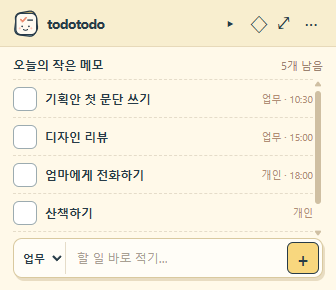
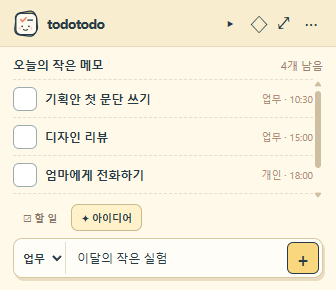
Keep compact capture drafts and add quick ideas

diff --git a/static/app.js b/static/app.js
@@ -1,6 +1,7 @@
 const $ = selector => document.querySelector(selector);
 const state = {items: [], view: 'home', scope: 'all', taskFilter: 'open', calendarMode: 'month', editing: null, month: new Date(), selectedDay: localDate(new Date()), preferredDay: new Date().getDate()};
 let desktopCompact = false;
+let compactKind = 'task';
 let renderedDate = '';
 let conflictAction = null;
 let editorBaseline = '';
@@ -317,7 +318,7 @@ function confirmCloseApp() {
 function requestCloseApp() {
   if (saving || compactSaving) {toast('저장 중입니다.'); return;}
   if ($('#discard-dialog').open) {pendingAppClose = true; return;}
-  if (editorHasChanges() || $('#compact-input').value.trim()) {
+  if (editorHasChanges()) {
     pendingAppClose = true;
     $('#discard-dialog').showModal();
   } else confirmCloseApp();
@@ -339,7 +340,7 @@ document.addEventListener('click', async event => {
   }
   const view = event.target.closest('[data-view]'); if (view) return setView(view.dataset.view);
   const create = event.target.closest('[data-new]'); if (create) return openEditor(create.dataset.new);
-  const scope = event.target.closest('[data-scope]'); if (scope) {state.scope = scope.dataset.scope; if (state.scope !== 'all') $('#compact-scope').value = state.scope; document.querySelectorAll('[data-scope]').forEach(el => {const selected = el === scope; el.classList.toggle('selected', selected); el.setAttribute('aria-pressed', String(selected));}); return render();}
+  const scope = event.target.closest('[data-scope]'); if (scope) {state.scope = scope.dataset.scope; if (state.scope !== 'all') {$('#compact-scope').value = state.scope; syncCompactDraftIndicator();} document.querySelectorAll('[data-scope]').forEach(el => {const selected = el === scope; el.classList.toggle('selected', selected); el.setAttribute('aria-pressed', String(selected));}); return render();}
   const filter = event.target.closest('[data-filter]'); if (filter) return setTaskFilter(filter.dataset.filter);
   const day = event.target.closest('[data-day]'); if (day) return selectCalendarDay(day.dataset.day);
   const compactEdit = event.target.closest('[data-compact-edit]'); if (compactEdit) {
@@ -541,10 +542,29 @@ function syncCompactDraftIndicator() {
   button.title = hasDraft ? '작은 메모 초안 이어쓰기' : '작은 메모 모드';
   button.setAttribute('aria-label', button.title);
   button.querySelector('span').textContent = hasDraft ? '초안 이어쓰기' : '작게 보기';
+  localStorage.setItem('todo-compact-draft-v1', JSON.stringify({title:$('#compact-input').value, scope:$('#compact-scope').value, kind:compactKind}));
+}
+function setCompactKind(kind) {
+  compactKind = kind;
+  document.querySelectorAll('[data-compact-kind]').forEach(button => button.setAttribute('aria-pressed', String(button.dataset.compactKind === kind)));
+  const label = kind === 'idea' ? '아이디어 한 줄 적기' : '오늘 할 일 적기';
+  $('#compact-input').placeholder = `${label}…`;
+  $('#compact-input').setAttribute('aria-label', label);
+  syncCompactDraftIndicator();
+}
+function restoreCompactDraft() {
+  try {
+    const draft = JSON.parse(localStorage.getItem('todo-compact-draft-v1') || '{}');
+    if (typeof draft.title === 'string') $('#compact-input').value = draft.title.slice(0, 200);
+    if (['personal','work'].includes(draft.scope)) $('#compact-scope').value = draft.scope;
+    setCompactKind(draft.kind === 'idea' ? 'idea' : 'task');
+  } catch {localStorage.removeItem('todo-compact-draft-v1'); setCompactKind('task');}
 }
 $('#compact-button').onclick = () => toggleCompact(true);
 $('#expand-button').onclick = () => toggleCompact(false);
 $('#compact-input').addEventListener('input', syncCompactDraftIndicator);
+$('#compact-scope').addEventListener('change', syncCompactDraftIndicator);
+document.querySelectorAll('[data-compact-kind]').forEach(button => {button.onclick = () => setCompactKind(button.dataset.compactKind);});
 $('#fold-button').onclick = $('#compact-fold').onclick = async () => {try {await window.todoDesktop.fold();} catch(error) {toast(error.message);}};
 document.querySelectorAll('[data-window-action]').forEach(button => {
   button.onclick = async () => {
@@ -555,11 +575,11 @@ document.querySelectorAll('[data-window-action]').forEach(button => {
 $('#compact-form').onsubmit = async event => {
   event.preventDefault();
   if (compactSaving) return;
-  const input = $('#compact-input'), title = input.value.trim();
+  const input = $('#compact-input'), title = input.value.trim(), scope = $('#compact-scope').value, kind = compactKind;
   if (!title) return;
   const button = event.currentTarget.querySelector('button[type="submit"]');
   compactSaving = true; button.disabled = true;
-  try {await api('/api/items',{method:'POST',body:JSON.stringify({title,kind:'task',scope:$('#compact-scope').value,date:localDate(new Date())})}); if (input.value.trim() === title) input.value = ''; await refresh(); toast('오늘 페이지에 적었어요.');}
+  try {await api('/api/items',{method:'POST',body:JSON.stringify({title,kind,scope,date:kind === 'task' ? localDate(new Date()) : ''})}); if (input.value.trim() === title && scope === $('#compact-scope').value && kind === compactKind) {input.value = ''; syncCompactDraftIndicator();} await refresh(); toast(kind === 'idea' ? '아이디어 보관함에 담았어요.' : '오늘 페이지에 적었어요.');}
   catch(error) {toast(error.message);}
   finally {compactSaving = false; button.disabled = false; syncCompactDraftIndicator();}
 };
@@ -709,6 +729,7 @@ document.addEventListener('keydown', event => {
   if (window.todoDesktop && event.ctrlKey && event.shiftKey && event.key.toLowerCase() === 'm') {event.preventDefault(); toggleCompact();}
   if (!desktopCompact && event.ctrlKey && event.key.toLowerCase() === 'n') {event.preventDefault(); if (!document.querySelector('dialog[open]')) openEditor();}
 });
+restoreCompactDraft();
 initializeDesktop().then(refresh).catch(error => toast(error.message));
 window.addEventListener('focus', refresh);
 document.addEventListener('visibilitychange', () => {if (!document.hidden) refresh();});

diff --git a/static/index.html b/static/index.html
@@ -12,7 +12,7 @@
 <body>
   <section class="compact-shell" aria-label="작은 메모 모드">
     <div class="compact-header"><div class="compact-brand"><img src="./logo.svg" alt="" width="31" height="31"><strong>todotodo</strong></div><div class="compact-controls"><button id="compact-fold" title="화면 가장자리로 접기" aria-label="화면 가장자리로 접기">▸</button><button id="compact-pin" title="창 고정" aria-label="창 고정">◇</button><button id="expand-button" title="큰 화면으로" aria-label="큰 화면으로">⤢</button><details class="window-menu"><summary title="창 메뉴" aria-label="창 메뉴">···</summary><div class="window-menu-panel"><button data-window-action="minimize">최소화</button><button data-window-action="close">닫기</button></div></details></div></div>
-    <div class="compact-body"><div class="compact-caption"><strong>오늘의 작은 메모</strong><span id="compact-count">0개 남음</span></div><div id="compact-list"></div><form id="compact-form"><select id="compact-scope" aria-label="저장할 공간"><option value="personal">개인</option><option value="work">업무</option></select><input id="compact-input" maxlength="200" placeholder="할 일 바로 적기…" aria-label="할 일 바로 적기" required><button type="submit" aria-label="추가">＋</button></form></div>
+    <div class="compact-body"><div class="compact-caption"><strong>오늘의 작은 메모</strong><span id="compact-count">0개 남음</span></div><div id="compact-list"></div><div class="compact-kind-switch" role="group" aria-label="빠른 기록 종류"><button type="button" data-compact-kind="task" aria-pressed="true">☑ 할 일</button><button type="button" data-compact-kind="idea" aria-pressed="false">✦ 아이디어</button></div><form id="compact-form"><select id="compact-scope" aria-label="저장할 공간"><option value="personal">개인</option><option value="work">업무</option></select><input id="compact-input" maxlength="200" placeholder="할 일 바로 적기…" aria-label="할 일 바로 적기" required><button type="submit" aria-label="추가">＋</button></form></div>
   </section>
   <div class="app-shell">
     <aside class="sidebar">

diff --git a/static/theme.css b/static/theme.css
@@ -179,6 +179,10 @@ button:focus-visible, input:focus-visible, textarea:focus-visible, select:focus-
 .compact-title:hover { text-decoration: underline; }
 .compact-row small { flex: none; white-space: nowrap; color: #b18e74; font-size: 10px; }
 .compact-empty { display: grid; place-items: center; height: 100%; color: #9b8c7b; font-size: 10px; }
+.compact-kind-switch { display: flex; gap: 4px; margin: 4px 0 7px; }
+.compact-kind-switch button { min-height: 27px; padding: 3px 9px; border: 1px solid transparent; border-radius: 7px; background: transparent; color: #8b7869; font-size: 10px; font-weight: 700; }
+.compact-kind-switch button:hover { background: #f4e6c5; }
+.compact-kind-switch button[aria-pressed="true"] { border-color: #cbb98e; background: #fff2cb; color: var(--ink); }
 #compact-form { display: flex; gap: 4px; border: 1.5px solid #d9c99f; border-radius: 9px; padding: 3px; background: #fffdf7; box-shadow: 2px 3px 0 #e8dcc2; }
 #compact-scope { flex: none; width: 49px; padding: 0 2px; border: 0; border-right: 1px solid #e5dcc9; border-radius: 0; background: transparent; color: var(--ink); font-size: 11px; font-weight: 700; cursor: pointer; }
 #compact-form:focus-within { border-color: #80b4a8; box-shadow: 0 0 0 3px #a7d8d550; }

diff --git a/README.md b/README.md
@@ -15,12 +15,12 @@ TodoTodo는 책상 한쪽에 놓아두는 작은 수첩 같은 Windows 앱입니
 | 보기 | 쓰임 |
 | --- | --- |
 | 전체 창 | 할 일, 달력, 아이디어를 정리할 때 |
-| 작은 메모 | 오늘 할 일을 스크롤해 보며 바로 적거나 체크할 때 |
+| 작은 메모 | 오늘 할 일을 훑고 체크하거나 아이디어를 바로 적을 때 |
 | 가장자리 탭 | 화면을 비워두고 로고만 왼쪽·오른쪽에 남길 때 |
 
 ![작은 메모 모드](docs/compact.png)
 
-작은 메모에서도 남은 항목을 모두 스크롤해 볼 수 있습니다. 빠른 입력 왼쪽에서 **개인/업무**를 골라 저장할 공간을 정하세요.
+작은 메모에서도 남은 항목을 모두 스크롤해 볼 수 있습니다. 입력창 위에서 **할 일/아이디어**를 고르고, 왼쪽에서 **개인/업무**를 고르세요. 할 일은 오늘 날짜로, 아이디어는 날짜 없이 보관합니다.
 
 기본 Windows 제목 표시줄 없이 앱 헤더나 로고 부분을 잡아 창을 움직입니다. 오른쪽 `···` 메뉴에서 최소화·최대화·닫기를 고릅니다. 창 고정과 투명도(45–100%)를 조절할 수 있습니다. 가장자리로 접은 아이콘 위의 작은 점을 잡아 위아래로 옮기면 모니터별 위치를 기억합니다. 시간이 있는 일정은 정각 또는 5·10·30분 전에 알림을 보냅니다. 모니터를 옮기거나 해상도가 바뀌면 창을 화면 안으로 맞춥니다. `Ctrl+Shift+M`으로 전체 창과 작은 메모를 전환할 수 있습니다.
 창 너비가 좁아지면 로고와 메뉴를 한 줄로 접어 할 일과 일정이 바로 보이도록 배치합니다.
@@ -40,7 +40,7 @@ PC가 잠자기에서 돌아온 뒤에도 일정 시작 5분 이내라면 놓친
 완료를 잘못 눌렀다면 화면 아래의 **되돌리기**로 바로 복구할 수 있습니다. 진행 중이던 일은 진행 중 상태로 돌아갑니다. 그 사이 에이전트가 같은 기록을 바꿨다면 변경 내용을 보호하고 되돌리기를 멈춥니다.
 
 기록할 때는 오늘·내일·날짜 없음 버튼으로 날짜를 빠르게 정할 수 있습니다. 시작 시각에는 날짜가 필요하고, 종료 시각을 넣는다면 같은 날의 시작 시각보다 늦어야 합니다. 알림은 시작 시각을 기준으로 보냅니다.
-편집창이나 앱을 닫을 때 저장되지 않은 변경 사항을 확인합니다. 작은 메모를 큰 화면으로 바꾸거나 가장자리 탭으로 접어두어도 초안은 남습니다. 큰 화면에서는 **초안 이어쓰기** 버튼으로 돌아갈 수 있습니다. 작은 메모의 저장 버튼을 연달아 눌러도 같은 기록이 두 번 만들어지지 않습니다.
+편집창을 닫을 때 저장되지 않은 변경 사항을 확인합니다. 작은 메모 초안은 이 기기에 자동 보관되어 앱을 껐다 켜도 이어 쓸 수 있습니다. 큰 화면에서는 **초안 이어쓰기** 버튼으로 돌아갈 수 있습니다. 작은 메모의 저장 버튼을 연달아 눌러도 같은 기록이 두 번 만들어지지 않습니다.
 
 ## AI는 선택 사항이에요
 
